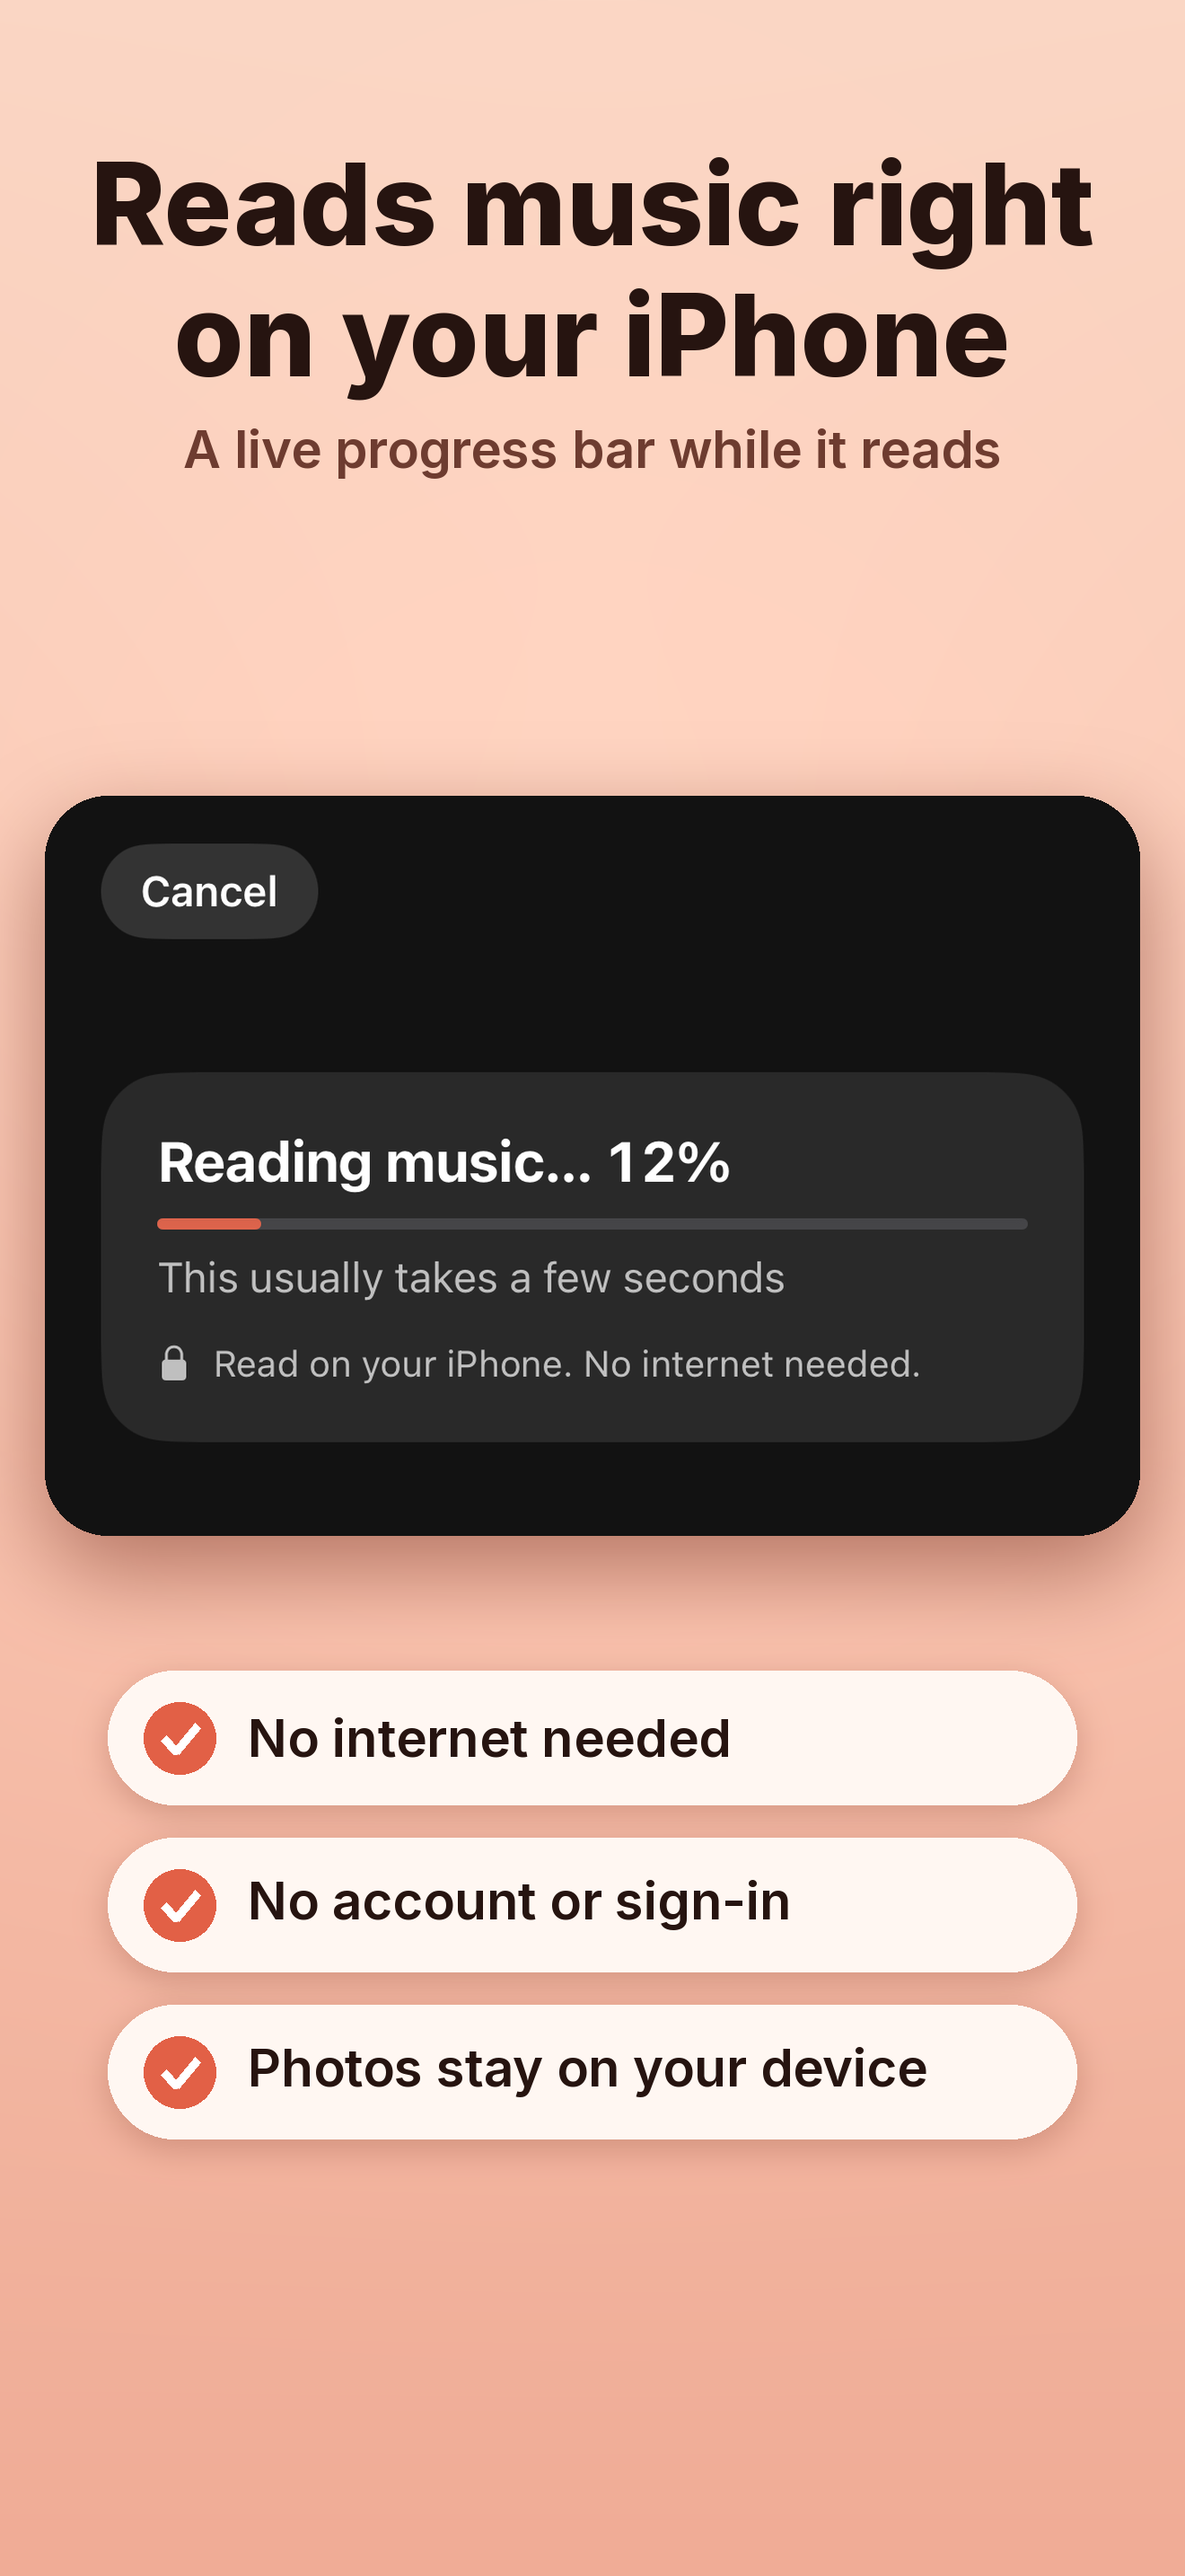
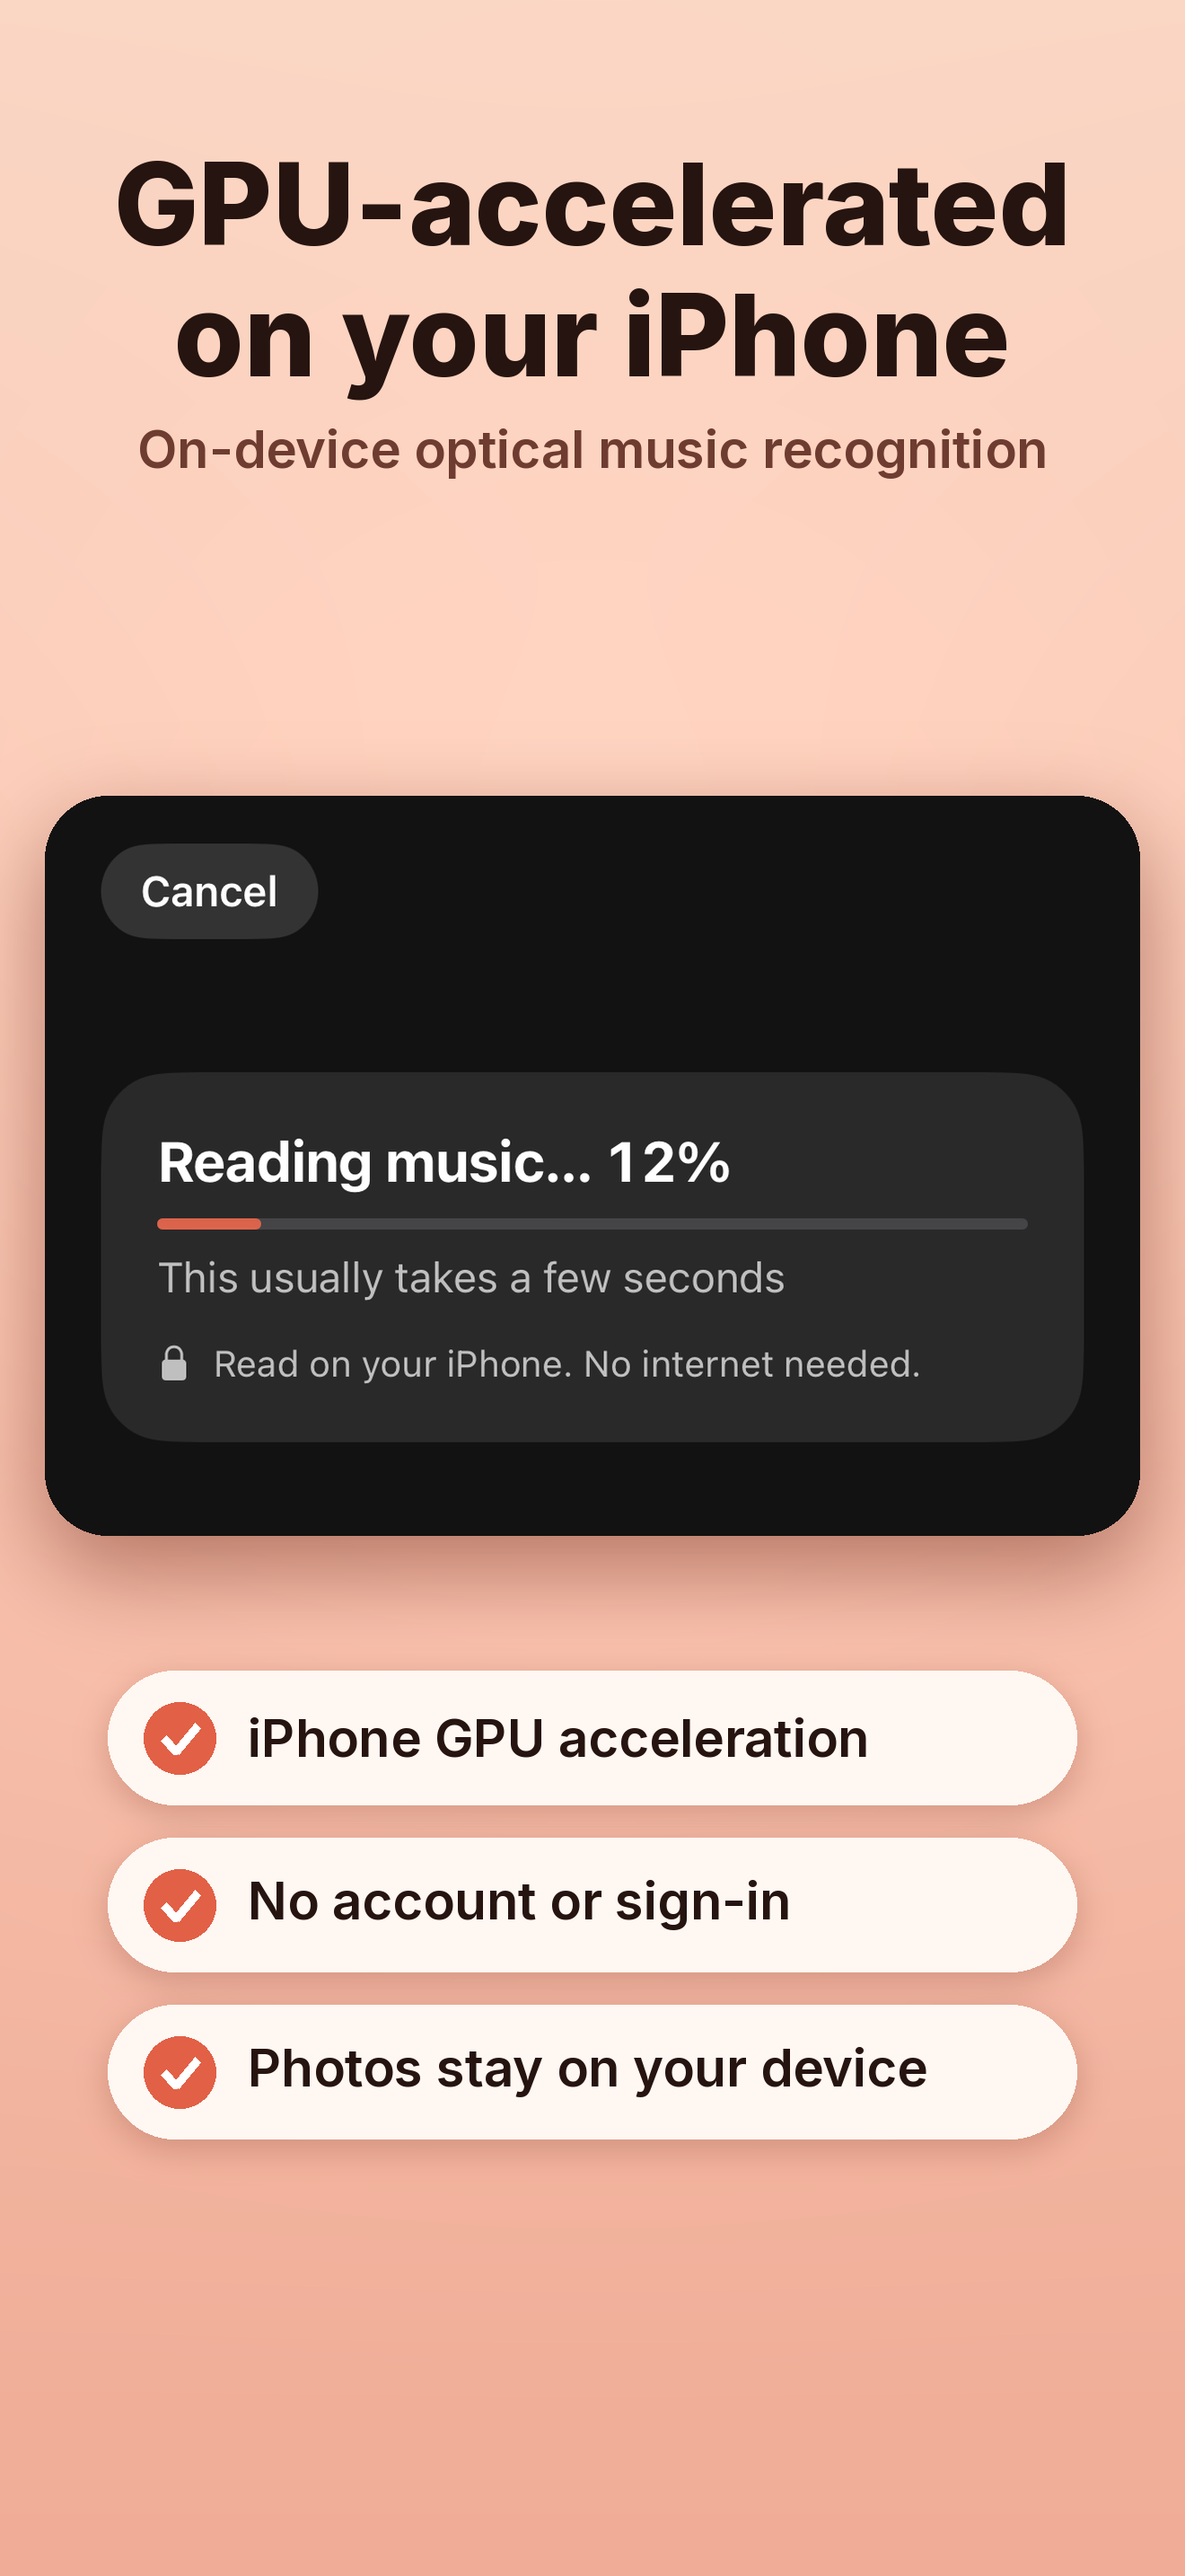
aso: emphasize iPhone GPU / on-device Neural Engine for OMR
Update App Store promo, description, what's new, and screenshot 03
captions/badges for honest on-device GPU acceleration (Core ML
encoder+SegNet on GPU/ANE; decoder remains ORT CPU). Prepare TODO
for v1.0 submit with build 24.

Changed region(s): [[0.0621, 0.0621, 0.9318, 0.1241], [0.1242, 0.1552, 0.8697, 0.1862], [0.2174, 0.6517, 0.7455, 0.6827]]

diff --git a/docs/asc/screenshots/en-US/make_store_screenshots.py b/docs/asc/screenshots/en-US/make_store_screenshots.py
@@ -26,7 +26,7 @@ SIZES = {"iphone-69": (1320, 2868), "ipad-13": (2064, 2752)}
 SHOTS = [
     ("01-snap-and-play", "Snap sheet music.\nHear it play.", None),
     ("02-slow-it-down", "Slow it down\nto practice", "Tempo from 0.5\u00d7 to 2\u00d7"),
-    ("03-reads-on-device", "Reads music right\non your {device}", "A live progress bar while it reads"),
+    ("03-reads-on-device", "GPU-accelerated\non your {device}", "On-device optical music recognition"),
     ("04-pick-a-sound", "Piano, strings,\nchoir and more", "Pick the instrument for playback"),
 ]
 
@@ -223,7 +223,7 @@ def reading(W, H, scale):
     panel = Image.new("RGB", (cardimg.width, cancel.height + gap + cardimg.height + 40), bgc)
     panel.paste(cancel, (0, 20))
     panel.paste(cardimg, (0, cancel.height + gap))
-    badges = ["No internet needed", "No account or sign-in", "Photos stay on your device"]
+    badges = ["iPhone GPU acceleration", "No account or sign-in", "Photos stay on your device"]
     bh = 3 * round(150 * scale) + 2 * round(36 * scale)
     gap = round(150 * scale)
     width = fit_width(W, H, y, panel, gap + bh, scale)

diff --git a/docs/asc/COPY.md b/docs/asc/COPY.md
@@ -12,7 +12,7 @@ the build currently in App Review is called out under **Binary gates** (do not c
 ## Shipped on tip-of-main (2026-10-06) — what upload-ready may claim
 
 - Camera capture (focus/expose, torch) + PhotosPicker import; pages saved on device
-- Full-page on-device recognition (`PageRecognitionService` / homr); live progress / warmup UI
+- Full-page on-device recognition (`PageRecognitionService` / homr); encoder+SegNet CoreML EP (GPU/ANE), decoder ORT CPU; live progress / warmup UI
 - Library home (how-it-works art, Camera/Photos CTAs, Your scans + Samples, search, rename/delete)
 - SF2 player (GeneralUser GS): play/pause/seek, tempo 0.5×–2×, instrument picker (Original + 11 GM programs), level meter, mini-player
 - Sheet mode note highlighting, Follow toggle, A–B loop, per-hand mute/solo, Share MIDI, transpose
@@ -24,7 +24,7 @@ the build currently in App Review is called out under **Binary gates** (do not c
 Honest Pro scope in listing: **unlimited scans**. Instruments and recognition are not Pro-gated
 in code (paywall UI matches that). Do not claim "priority processing".
 
-## Binary gates (vs App Review build 15)
+## Binary gates (vs App Review build 15; submit tip with build 24)
 
 | Claim | In build 15? | In tip-of-main? |
 |---|---|---|
@@ -42,8 +42,8 @@ advertise IAP/telemetry/highlighting that build 15 lacks. Prefer sync when submi
 - Name: `AI Camera - Music Reader`
 - Subtitle: `Scan sheet music, hear it play`
 - Keywords: `OMR,piano,score,notation,notes,MIDI,sightreading,practice,tempo,choir,teacher,student,synth,library`
-- Promotional text: `Point your camera at printed sheet music and hear it play. Free: 5 scans/day; Pro for unlimited. On-device reading — no account.`
-- What's New: `Scan printed sheet music and hear it on device. Free: 5 pages/day; Pro unlocks unlimited scans. Tempo, 11 instruments, library, and practice tools.`
+- Promotional text: `Point your camera at printed sheet music and hear it play. Free: 5 scans/day; Pro for unlimited. On-device with iPhone GPU acceleration — no account.`
+- What's New: `On-device OMR with iPhone GPU acceleration. Free: 5 pages/day; Pro unlocks unlimited scans. Tempo, 11 instruments, library, and practice tools.`
 - Description: `metadata/en-US/description.txt`
 
 Keyword notes: name/subtitle words (ai, camera, music, reader, scan, sheet, hear, it, play) are not
@@ -78,7 +78,7 @@ OMR,piano,score,notation,notes,MIDI,sightreading,practice,tempo,choir,teacher,st
 
 ### Post-ship promotional text
 ```
-Point your camera at printed sheet music and hear it play. Free: 5 scans/day; Pro for unlimited. On-device reading — no account.
+Point your camera at printed sheet music and hear it play. Free: 5 scans/day; Pro for unlimited. On-device with iPhone GPU acceleration — no account.
 ```
 
 ### Post-ship description
@@ -112,7 +112,7 @@ TRY IT INSTANTLY
 No sheet music nearby? Tap "Try sample picture" to read a bundled page of Beethoven's "Ode to Joy" and hear the result.
 
 ON-DEVICE READING
-Recognition runs on your device with models built into the app. Your photos and scores are never uploaded. No account or sign-in is required.
+Recognition runs on your device with iPhone GPU acceleration for optical music recognition (Core ML on the GPU and Neural Engine for the heavy vision steps). Models are built into the app — your photos and scores are never uploaded. No account or sign-in is required.
 
 USAGE DATA
 The app sends anonymous usage events (such as app open, scan success or fail, and purchase funnel steps) to our servers to improve the product. Events include an anonymous device id — never your photos, MIDI, email, or location. Purchases are processed by Apple.
@@ -136,7 +136,7 @@ Source of truth: `docs/asc/screenshots/en-US/make_store_screenshots.py` (not pla
 ```
 1 | Snap and hear it | Hero mockup | shipped (on-image: "Snap sheet music. Hear it play.")
 2 | Slow it to practice | Player tempo | shipped
-3 | Reads on your device | Reading progress | shipped
+3 | GPU on your iPhone | Reading progress | shipped (on-image: "GPU-accelerated on your iPhone")
 4 | Piano strings and choir | Instrument chips | shipped
 5 | Private on your device | Privacy framing | shipped (photos on-device; telemetry in privacy policy)
 ```
@@ -148,21 +148,21 @@ upload-ready (metadata/en-US)
   Name                  24     30  yes
   Subtitle              30     30  yes
   Keywords              99    100  yes
-  Promotional text     128    170  yes
-  Description         2553   4000  yes
+  Promotional text     149    170  yes
+  Description         2679   4000  yes
 
 post-ship (COPY.md)
   field              chars  limit  ok
   Name                  24     30  yes
   Subtitle              30     30  yes
   Keywords              99    100  yes
-  Promotional text     128    170  yes
-  Description         2553   4000  yes
+  Promotional text     149    170  yes
+  Description         2679   4000  yes
 
 screenshot captions (<= 5 words)
   4 words  1 | Snap and hear it | Hero mockup | shipped (on-image: "Snap sheet music. Hear it play.")
   4 words  2 | Slow it to practice | Player tempo | shipped
-  4 words  3 | Reads on your device | Reading progress | shipped
+  4 words  3 | GPU on your iPhone | Reading progress | shipped (on-image: "GPU-accelerated on your iPhone")
   4 words  4 | Piano strings and choir | Instrument chips | shipped
   4 words  5 | Private on your device | Privacy framing | shipped (photos on-device; telemetry in privacy policy)
 

diff --git a/TODO.md b/TODO.md
@@ -1,7 +1,7 @@
 # TODO — AI Camera - Music Reader
-_Last updated: 2026-10-06 7:53 PM PT by OMR iOS_
+_Last updated: 2026-10-06 8:11 PM PT by OMR iOS_
 
-Shared task list: whoever pushes to `main` updates it in the same commit as the work. Details go in commit messages or `docs/`. Tip (see latest main). App Review still has **build 15** (do not cancel). Listing/privacy optimized for tip (IAP+telemetry); do not sync listing to ASC until a matching binary is submitted. Redeploy live privacy/support HTML.
+Shared task list: whoever pushes to `main` updates it in the same commit as the work. Details go in commit messages or `docs/`. Tip (see latest main). ASO: GPU/on-device Neural Engine emphasis in listing + screenshots; submit v1.0 with **build 24** (replaces App Review build 15).
 
 ## Locked constraints
 - Decoder fp32 on ORT CPU EP; encoder + SegNet fp16 on CoreML EP with CPU fallback
@@ -11,7 +11,7 @@ Shared task list: whoever pushes to `main` updates it in the same commit as the 
 
 ## Now (in progress)
 - [ ] Full-page OMR perf later: Core ML encoder offline experiment + fixed-batch-8 SegNet (commits 5–6); optional page locator / stateful decoder (7–8) — OMR iOS
-- [ ] v1.0 build 15 in App Review (WAITING_FOR_REVIEW, submitted 2026-09-28 ~8:30 PM PT / 03:30 UTC; listing = captioned peach screenshots + rewritten copy, no Sweden). Check with read-only **ASC status** only; do NOT re-run cancel/submit while waiting — Chief of Staff — submit run 36373908988; status rechecked 2026-10-04 ~9:10 AM PT (run 37215746872)
+- [ ] Submit v1.0 with build **24** (VALID) + GPU/on-device listing + screenshots via `asc-submit-app-store.yml` (cancels build-15 review, attaches 24) — OMR iOS
 - [ ] Real-device page parse verdict on latest TestFlight (after recognition-always-on / Library-home fix): 3–5 real sheet photos → parse time + peak `phys_footprint` from Copy as prompt; pass/fail per photo — OMR iOS + User
 - [ ] Real-photo accuracy spot check (2–3 photos, color preprocessing path; diagnostics `preprocess_mode`) — OMR Core + User
 - [ ] Regression fixtures (2026-09-27 audit): tuplet rounding, key signatures + accidentals, multi-row/grand-staff timing — OMR Core
@@ -32,6 +32,7 @@ Shared task list: whoever pushes to `main` updates it in the same commit as the 
 - [ ] Add the original 22-token C-scale image from `~/workspace/homr-research` as a second oracle fixture (needs the Mac) — User
 
 ## Done (recent)
+- [x] ASO: screenshot 03 + listing promo/description/whatsnew emphasize iPhone GPU / on-device Neural Engine OMR (honest: CoreML GPU/ANE for encoder+SegNet; decoder ORT CPU) — OMR iOS — 2026-10-06 8:11 PM PT
 - [x] README + GitHub description: zero-copy ORT I/O Binding decoder, StaffDecodeTiming, parallel staffs, fixture camera.die_letzte_kompanie — OMR iOS — 2026-10-06 7:53 PM PT
 - [x] Parallel staff decode: staffPool + maxStaffConcurrency (iPhone default 2); StaffDecodeTiming; docs/plans/staff-decode-concurrency.md — OMR iOS — 2026-10-06 7:52 PM PT
 - [x] Fixture `camera.die_letzte_kompanie` (real photo Die Letzte Kompanie, snapshot tier) — OMR iOS — 2026-10-06 7:50 PM PT

diff --git a/docs/asc/LISTING.md b/docs/asc/LISTING.md
@@ -9,11 +9,10 @@ copy and must equal `metadata/en-US/*.txt` (fastlane deliver layout). History an
 `COPY.md`. Check: `python3 docs/asc/check_copy.py`.
 
 **Sync gate:** tip-of-main listing discloses free quota + Pro IAP + anonymous telemetry.
-App Review **build 15** (do not cancel) does **not** include IAP/telemetry. Do **not** run
-`asc-music-reader-upload` / submit listing sync until the binary under review (or next submit)
-matches these claims. User runs submit; agents never dispatch `asc-submit`.
+Tip-of-main (build **24**) includes IAP + telemetry + Library home. Sync listing + submit
+with that binary. Prefer `asc-submit-app-store.yml` (sync_listing=true, build_number=24).
 
-Status: listing optimized 2026-10-06 for tip-of-main. Upload + verify with
+Status: listing optimized 2026-10-06 for tip-of-main + iPhone GPU / on-device OMR emphasis. Upload + verify with
 `.github/workflows/asc-music-reader-upload.yml` when ready.
 
 ## Name (30)
@@ -28,7 +27,7 @@ Scan sheet music, hear it play
 
 ## Promotional text (170)
 ```
-Point your camera at printed sheet music and hear it play. Free: 5 scans/day; Pro for unlimited. On-device reading — no account.
+Point your camera at printed sheet music and hear it play. Free: 5 scans/day; Pro for unlimited. On-device with iPhone GPU acceleration — no account.
 ```
 
 ## Keywords (100, comma-separated)
@@ -67,7 +66,7 @@ TRY IT INSTANTLY
 No sheet music nearby? Tap "Try sample picture" to read a bundled page of Beethoven's "Ode to Joy" and hear the result.
 
 ON-DEVICE READING
-Recognition runs on your device with models built into the app. Your photos and scores are never uploaded. No account or sign-in is required.
+Recognition runs on your device with iPhone GPU acceleration for optical music recognition (Core ML on the GPU and Neural Engine for the heavy vision steps). Models are built into the app — your photos and scores are never uploaded. No account or sign-in is required.
 
 USAGE DATA
 The app sends anonymous usage events (such as app open, scan success or fail, and purchase funnel steps) to our servers to improve the product. Events include an anonymous device id — never your photos, MIDI, email, or location. Purchases are processed by Apple.
@@ -147,7 +146,7 @@ Header/Search Results assets deferred). From `screenshots/en-US/source/`
 (hero mockup, real-device player captures, and crops of the scanning screen that exclude the photo preview).
 Every frame has a large caption. Uploaded in filename order:
 01 "Snap sheet music. Hear it play." (hero mockup) · 02 "Slow it down to practice" (Für Elise player) ·
-03 "Reads music right on your iPhone" (progress card + privacy badges; iPad: "on your device") ·
+03 "GPU-accelerated on your iPhone" (progress card + GPU/privacy badges; iPad: "on your device") ·
 04 "Piano, strings, choir and more" (player controls + the app's instrument list).
 
 | ASC display type | Size | Files |
